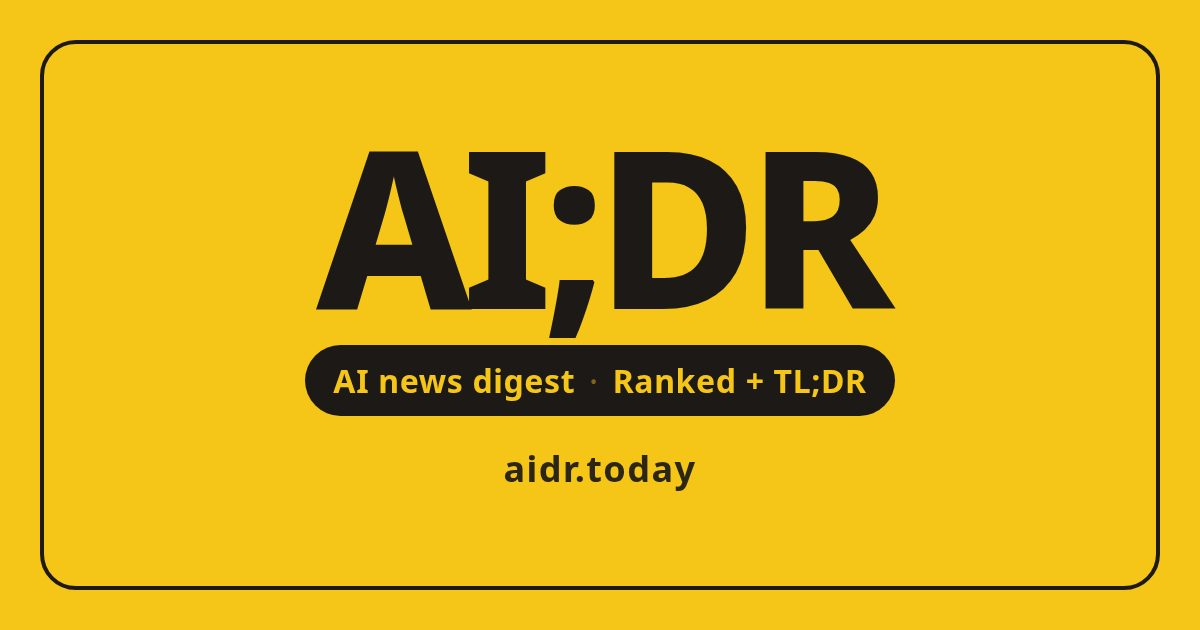
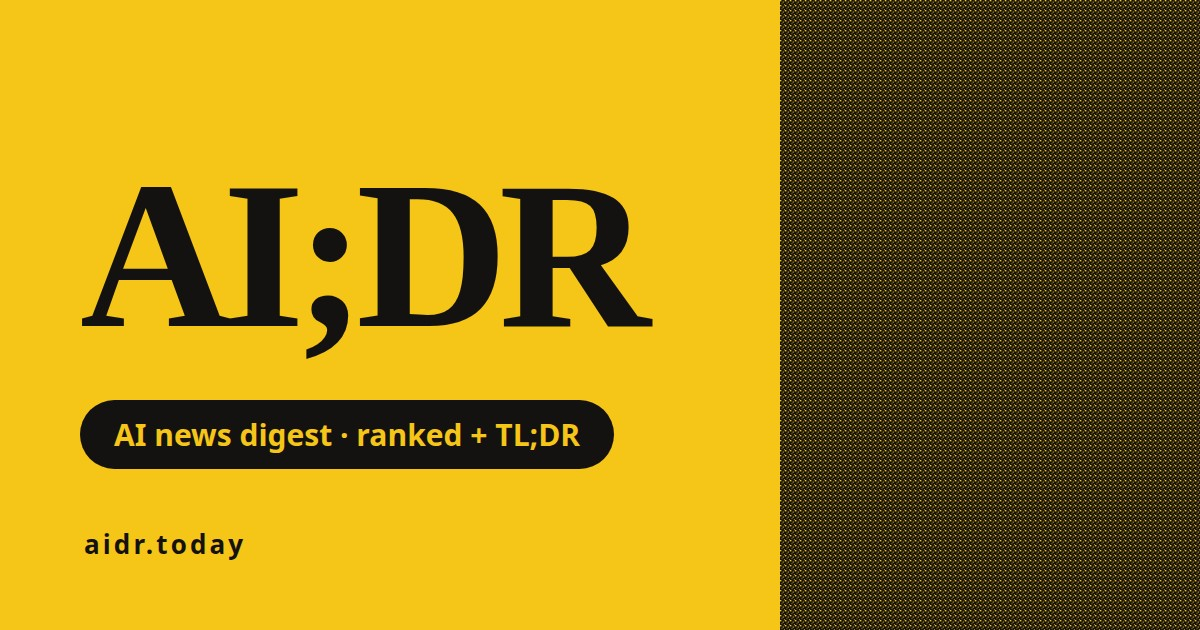
feat(web): refresh OG images with homepage masthead variant
og.jpg becomes the yellow+dither default for non-homepage pages;
og-home.jpg is the new masthead card served only on the homepage
via a pageHead imageUrl override.

diff --git a/apps/web/src/lib/seo.test.ts b/apps/web/src/lib/seo.test.ts
@@ -2,6 +2,7 @@ import { describe, expect, it } from "vitest";
 import { articleHead, homepageHead, notFoundHead, pageHead } from "./seo";
 import {
   SITE_DESCRIPTION,
+  SITE_OG_HOME_IMAGE_URL,
   SITE_OG_IMAGE_URL,
   SITE_TITLE,
   SITE_URL,
@@ -33,11 +34,13 @@ describe("homepageHead", () => {
     expect(metaContent(head.meta, "og:description")).toBe(SITE_DESCRIPTION);
     expect(metaContent(head.meta, "og:url")).toBe(`${SITE_URL}/`);
     expect(metaContent(head.meta, "og:type")).toBe("website");
-    expect(metaContent(head.meta, "og:image")).toBe(SITE_OG_IMAGE_URL);
+    expect(metaContent(head.meta, "og:image")).toBe(SITE_OG_HOME_IMAGE_URL);
     expect(metaContent(head.meta, "og:image:width")).toBe("1200");
     expect(metaContent(head.meta, "og:image:height")).toBe("630");
     expect(metaContent(head.meta, "twitter:card")).toBe("summary_large_image");
-    expect(metaContent(head.meta, "twitter:image")).toBe(SITE_OG_IMAGE_URL);
+    expect(metaContent(head.meta, "twitter:image")).toBe(
+      SITE_OG_HOME_IMAGE_URL
+    );
     expect(metaContent(head.meta, "twitter:title")).toBe(SITE_TITLE);
     expect(metaContent(head.meta, "twitter:description")).toBe(
       SITE_DESCRIPTION
@@ -58,6 +61,9 @@ describe("pageHead", () => {
       href: `${SITE_URL}/about`,
     });
     expect(metaContent(head.meta, "og:url")).toBe(`${SITE_URL}/about`);
+    // Non-homepage pages share the default OG card; the masthead variant
+    // is homepage-only.
+    expect(metaContent(head.meta, "og:image")).toBe(SITE_OG_IMAGE_URL);
     expect(head.links).not.toContainEqual({
       rel: "canonical",
       href: `${SITE_URL}/`,

diff --git a/apps/web/src/lib/seo.ts b/apps/web/src/lib/seo.ts
@@ -1,6 +1,7 @@
 import {
   SITE_DESCRIPTION,
   SITE_NAME,
+  SITE_OG_HOME_IMAGE_URL,
   SITE_OG_IMAGE_HEIGHT,
   SITE_OG_IMAGE_URL,
   SITE_OG_IMAGE_WIDTH,
@@ -81,6 +82,7 @@ export function pageHead(opts: {
   path: string;
   title: string;
   description?: string;
+  imageUrl?: string;
 }): HeadTags {
   const url = canonicalUrl(opts.path);
   const description = opts.description ?? SITE_DESCRIPTION;
@@ -90,7 +92,7 @@ export function pageHead(opts: {
       description,
       url,
       type: "website",
-      imageUrl: SITE_OG_IMAGE_URL,
+      imageUrl: opts.imageUrl ?? SITE_OG_IMAGE_URL,
       siteOgDimensions: true,
     }),
     links: [{ rel: "canonical", href: url }, SITEMAP_LINK],
@@ -103,6 +105,7 @@ export function homepageHead(): HeadTags {
     path: "/",
     title: SITE_TITLE,
     description: SITE_DESCRIPTION,
+    imageUrl: SITE_OG_HOME_IMAGE_URL,
   });
 }
 

diff --git a/apps/web/src/lib/site.ts b/apps/web/src/lib/site.ts
@@ -6,9 +6,12 @@ export const SITE_SLOGAN = "AI news ranked and summary";
 export const SITE_DESCRIPTION =
   "AI News (aidr.today) ranks AI stories hourly from HN, HuggingNews, and more. LLM-scored AI;DR digest in English and Vietnamese — every item links to the source.";
 
-/** Homepage Open Graph / Twitter share image (1200×630, editorial brand). */
+/** Default Open Graph / Twitter share image (1200×630, editorial brand). */
 export const SITE_OG_IMAGE_PATH = "/og.jpg";
 export const SITE_OG_IMAGE_URL = `${SITE_URL}${SITE_OG_IMAGE_PATH}`;
+/** Homepage-only OG variant (masthead design). */
+export const SITE_OG_HOME_IMAGE_PATH = "/og-home.jpg";
+export const SITE_OG_HOME_IMAGE_URL = `${SITE_URL}${SITE_OG_HOME_IMAGE_PATH}`;
 export const SITE_OG_IMAGE_WIDTH = 1200;
 export const SITE_OG_IMAGE_HEIGHT = 630;
 
